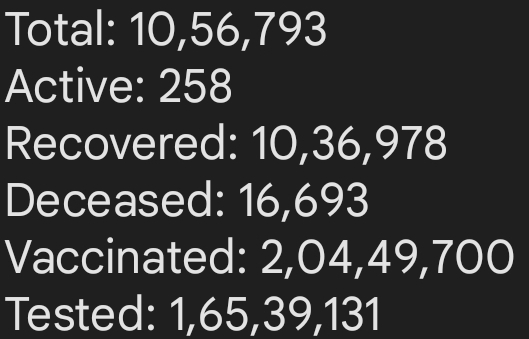
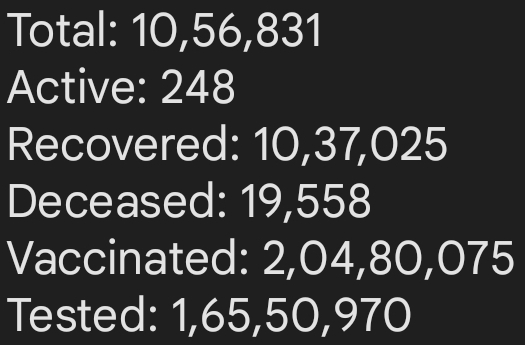
changes 23

diff --git a/index.html b/index.html
@@ -149,70 +149,70 @@
         </div>
         <div class="col s12" id="ind">
           <blockquote style="font-size: x-large; border-left-color: #1e88e5;">
-            <i class="fas fa-virus"></i> Covid 19 (Mar 24, Mar 23)</blockquote>
+            <i class="fas fa-virus"></i> Covid 19 (Mar 25, Mar 24)</blockquote>
           <h6 class="white-text">Source: ICMR/ MyGov<br>&#8595;&#8593; Changes from last 24 hours</h6>
           <div class="row">
             <div class="col s12 m12 l6">
-              <img src="images/I24i.png" alt="IndDB" width="100%" class="responsive-img materialboxed">
+              <img src="images/I25i.png" alt="IndDB" width="100%" class="responsive-img materialboxed">
             </div>
             <div class="col s12 m12 l6">
-              <img src="images/I23i.png" alt="IndDB" width="100%" class="responsive-img materialboxed">
+              <img src="images/I24i.png" alt="IndDB" width="100%" class="responsive-img materialboxed">
             </div>
           </div>
           <blockquote style="font-size: x-large; border-left-color: #1e88e5;">
-            <i class="fas fa-syringe"></i> Vaccination (Mar 24, Mar 23)</blockquote>
+            <i class="fas fa-syringe"></i> Vaccination (Mar 25, Mar 24)</blockquote>
           <div class="row">
+            <div class="col s12 m12 l6">
+              <img src="images/I25ii.png" alt="IndDB" width="100%" class="responsive-img materialboxed">
+            </div>
             <div class="col s12 m12 l6">
               <img src="images/I24ii.png" alt="IndDB" width="100%" class="responsive-img materialboxed">
             </div>
-            <div class="col s12 m12 l6">
-              <img src="images/I23ii.png" alt="IndDB" width="100%" class="responsive-img materialboxed">
-            </div>
           </div>
-          <h6>Below Data as on March 25, 13:25 IST</h6>
+          <h6>Below Data as on March 26, 14:25 IST</h6>
           <div class="row">
             <div class="col s12 m6 l4">
               <div class="card-panel grey darken-4 white-text">
                 <h5><b>Vaccine Doses availability</b></h5>
-                <p>As on March 25, Source: PIB India</p>
-                <p><b>Supplied</b>: 184.12 Crores</p>
-                <p><b>Balance</b>: 16.45 Crores</p>
+                <p>As on March 26, Source: PIB India</p>
+                <p><b>Supplied</b>: 184.40 Crores</p>
+                <p><b>Balance</b>: 16.41 Crores</p>
               </div>
             </div>
             <div class="col s12 m6 l4">
               <div class="card-panel grey darken-4 white-text">
                 <h5><b>Vaccine Doses administered</b></h5>
-                <p><b>Dose 1</b>: 97.97 Crores</p>
-                <p><b>Dose 2</b>: 82.44 Crores</p>
-                <p><b>Prec. Dose</b>: 2.10 Crores</p>
-                <p><b>Total</b>: 182.51 Crores</p>
+                <p><b>Dose 1</b>: 98.22 Crores</p>
+                <p><b>Dose 2</b>: 82.60 Crores</p>
+                <p><b>Prec. Dose</b>: 2.12 Crores</p>
+                <p><b>Total</b>: 182.95 Crores</p>
               </div>
             </div>
             <div class="col s12 m6 l4">
               <div class="card-panel grey darken-4 white-text">
                 <h5><b>Registered for Vaccine</b></h5>
-                <p><b>Age 12 to 14</b>: 1.03 Crores</p>
-                <p><b>Age 15 to 17</b>: 5.76 Crores</p>
-                <p><b>Age 18 to 44</b>: 62.89 Crores</p>
-                <p><b>Age 45+</b>: 36.50 Crores</p>
-                <p><b>Total</b>: 106.20 Crores</p>
+                <p><b>Age 12 to 14</b>: 1.21 Crores</p>
+                <p><b>Age 15 to 17</b>: 5.77 Crores</p>
+                <p><b>Age 18 to 44</b>: 62.90 Crores</p>
+                <p><b>Age 45+</b>: 36.51 Crores</p>
+                <p><b>Total</b>: 106.41 Crores</p>
               </div>
             </div>
             <div class="col s12 m6 l4">
               <div class="card-panel grey darken-4 white-text">
                 <h5><b>Vaccination by Gender</b></h5>
-                <p><b>Male</b>: 91.85 Crores</p>
-                <p><b>Female</b>: 88.09 Crores</p>
-                <p><b>Others</b>: 4.33 Lakhs</p>
+                <p><b>Male</b>: 92.06 Crores</p>
+                <p><b>Female</b>: 88.31 Crores</p>
+                <p><b>Others</b>: 4.34 Lakhs</p>
               </div>
             </div>
             <div class="col s12 m6 l4">
               <div class="card-panel grey darken-4 white-text">
                 <h5><b>Vaccination by Vaccine Name</b></h5>
-                <p><b>CoviShield</b>: 150.62 Crores</p>
-                <p><b>Covaxin</b>: 30.42 Crores</p>
-                <p><b>Sputnik V</b>: 12.20 Lakhs</p>
-                <p><b>Corbevax</b>: 92.63 Lakhs</p>
+                <p><b>CoviShield</b>: 150.76 Crores</p>
+                <p><b>Covaxin</b>: 30.50 Crores</p>
+                <p><b>Corbevax</b>: 1.15 Crores</p>
+                <p><b>Sputnik V</b>: 12.21 Lakhs</p>
                 <p><b>Novavax</b>: -</p>
                 <p><b>Zycov-D</b>: -</p>
               </div>
@@ -220,18 +220,32 @@
             <div class="col s12 m6 l4">
               <div class="card-panel grey darken-4 white-text">
                 <h5><b>Vaccination by Age</b></h5>
-                <p><b>Age 12 to 14</b>: 92.63 Lakhs</p>
-                <p><b>Age 15 to 17</b>: 9.32 Crores</p>
-                <p><b>Age 18 to 44</b>: 106.15 Crores</p>
-                <p><b>Age 45 to 60</b>: 40.24 Crores</p>
-                <p><b>Age 60+</b>: 25.43 Crores</p>
+                <p><b>Age 12 to 14</b>: 1.15 Crores</p>
+                <p><b>Age 15 to 17</b>: 9.38 Crores</p>
+                <p><b>Age 18 to 44</b>: 106.26 Crores</p>
+                <p><b>Age 45 to 60</b>: 40.27 Crores</p>
+                <p><b>Age 60+</b>: 25.46 Crores</p>
               </div>
             </div>
           </div>
         </div>
         <div class="col s12" id="sta">
           <blockquote style="font-size: x-large; border-left-color: #1e88e5;">
-            <i class="fas fa-virus"></i> Covid 19 (Mar 24, Mar 23)</blockquote>
+            <i class="fas fa-virus"></i> Covid 19 (Mar 25, Mar 24)</blockquote>
+          <div class="row">
+            <div class="col s12 m12 l3">
+              <img src="images/S25i.png" alt="StatDB1" width="100%" class="responsive-img materialboxed">
+            </div>
+            <div class="col s12 m12 l3">
+              <img src="images/S25ii.png" alt="StatDB2" width="100%" class="responsive-img materialboxed">
+            </div>
+            <div class="col s12 m12 l3">
+              <img src="images/S25iii.png" alt="StatDB3" width="100%" class="responsive-img materialboxed">
+            </div>
+            <div class="col s12 m12 l3">
+              <img src="images/S25iv.png" alt="StatDB4" width="100%" class="responsive-img materialboxed">
+            </div>
+          </div>
           <div class="row">
             <div class="col s12 m12 l3">
               <img src="images/S24i.png" alt="StatDB1" width="100%" class="responsive-img materialboxed">
@@ -246,75 +260,61 @@
               <img src="images/S24iv.png" alt="StatDB4" width="100%" class="responsive-img materialboxed">
             </div>
           </div>
-          <div class="row">
-            <div class="col s12 m12 l3">
-              <img src="images/S23i.png" alt="StatDB1" width="100%" class="responsive-img materialboxed">
-            </div>
-            <div class="col s12 m12 l3">
-              <img src="images/S23ii.png" alt="StatDB2" width="100%" class="responsive-img materialboxed">
-            </div>
-            <div class="col s12 m12 l3">
-              <img src="images/S23iii.png" alt="StatDB3" width="100%" class="responsive-img materialboxed">
-            </div>
-            <div class="col s12 m12 l3">
-              <img src="images/S23iv.png" alt="StatDB4" width="100%" class="responsive-img materialboxed">
-            </div>
-          </div>
           <blockquote style="font-size: x-large; border-left-color: #1e88e5;">
-            <i class="fas fa-syringe"></i> Vaccination (Mar 24, Mar 23)</blockquote>
+            <i class="fas fa-syringe"></i> Vaccination (Mar 25, Mar 24)</blockquote>
           <div class="row">
+            <div class="col s12 m12 l3">
+              <img src="images/V25i.png" alt="VacDB1" width="100%" class="responsive-img materialboxed">
+            </div>
+            <div class="col s12 m12 l3">
+              <img src="images/V25ii.png" alt="VacDB2" width="100%" class="responsive-img materialboxed">
+            </div>
             <div class="col s12 m12 l3">
               <img src="images/V24i.png" alt="VacDB1" width="100%" class="responsive-img materialboxed">
             </div>
             <div class="col s12 m12 l3">
               <img src="images/V24ii.png" alt="VacDB2" width="100%" class="responsive-img materialboxed">
             </div>
-            <div class="col s12 m12 l3">
-              <img src="images/V23i.png" alt="VacDB1" width="100%" class="responsive-img materialboxed">
-            </div>
-            <div class="col s12 m12 l3">
-              <img src="images/V23ii.png" alt="VacDB2" width="100%" class="responsive-img materialboxed">
-            </div>
           </div>
           <h6><b>Abbreviations</b> - UT: Union Territory</h6>
         </div>
         <div class="col s12" id="mah">
           <blockquote style="font-size: x-large; border-left-color: #1e88e5;">
-            <i class="fas fa-virus"></i> Covid 19 (Mar 24)</blockquote>
+            <i class="fas fa-virus"></i> Covid 19 (Mar 25)</blockquote>
           <h6>Source: Twitter - PIB Maharashtra</h6>
           <div class="row">
             <div class="col s12 m12 l6">
-              <img src="https://pbs.twimg.com/media/FOnvRv3aQA0x-jN?format=png&name=900x900" alt="MH1" width="100%"
+              <img src="https://pbs.twimg.com/media/FOs6OMzaQAkf6ro?format=png&name=small" alt="MH1" width="100%"
                 class="responsive-img materialboxed">
             </div>
             <div class="col s12 m12 l6">
-              <img src="https://pbs.twimg.com/media/FOnvVbiaAAk4Y1p?format=png&name=900x900" alt="MH2" width="100%"
-                class="responsive-img materialboxed">
-            </div>
-          </div>
-          <div class="row">
-            <div class="col s12 m12 l6">
-              <img src="https://pbs.twimg.com/media/FOnvY3caMAMr-TW?format=png&name=small" alt="MH3" width="100%"
-                class="responsive-img materialboxed">
-            </div>
-            <div class="col s12 m12 l6">
-              <img src="https://pbs.twimg.com/media/FOnv9R8aIAIOKSw?format=png&name=small" alt="MH4" width="100%"
+              <img src="https://pbs.twimg.com/media/FOs6TqKaMAIcxP0?format=png&name=900x900" alt="MH2" width="100%"
                 class="responsive-img materialboxed">
             </div>
           </div>
           <div class="row">
             <div class="col s12 m12 l6">
-              <img src="https://pbs.twimg.com/media/FOnwANvaMAUH14E?format=png&name=900x900" alt="MH5" width="100%"
+              <img src="https://pbs.twimg.com/media/FOs6lsEacAM2UrV?format=png&name=small" alt="MH3" width="100%"
                 class="responsive-img materialboxed">
             </div>
             <div class="col s12 m12 l6">
-              <img src="https://pbs.twimg.com/media/FOnwD2gaMAAQJgL?format=png&name=900x900" alt="MH6" width="100%"
+              <img src="https://pbs.twimg.com/media/FOs7lnVagAIDxM4?format=png&name=small" alt="MH4" width="100%"
                 class="responsive-img materialboxed">
             </div>
           </div>
           <div class="row">
             <div class="col s12 m12 l6">
-              <img src="https://pbs.twimg.com/media/FOnwHEKaAAYP71e?format=png&name=small" alt="MH7" width="100%"
+              <img src="https://pbs.twimg.com/media/FOs7oZxaUAEVunu?format=png&name=900x900" alt="MH5" width="100%"
+                class="responsive-img materialboxed">
+            </div>
+            <div class="col s12 m12 l6">
+              <img src="https://pbs.twimg.com/media/FOs7sVpaQAc2043?format=png&name=900x900" alt="MH6" width="100%"
+                class="responsive-img materialboxed">
+            </div>
+          </div>
+          <div class="row">
+            <div class="col s12 m12 l6">
+              <img src="https://pbs.twimg.com/media/FOs7v-gaAAQg04t?format=png&name=small" alt="MH7" width="100%"
                 class="responsive-img materialboxed">
             </div>
           </div>
@@ -333,37 +333,37 @@
           <div class="row">
             <div class="col s12 m6 l3">
               <div class="card-panel grey darken-4 white-text">
-                <h5><b>MUMBAI</b> <i class="fas fa-arrow-circle-up"></i> _ (54, 46) </h5>
+                <h5><b>MUMBAI</b> <i class="fas fa-arrow-circle-up"></i> 38 (54, 46) </h5>
                 <img src="images/D1.png" alt="MD" width="100%" class="responsive-img" id="dis">
               </div>
             </div>
             <div class="col s12 m6 l3">
               <div class="card-panel grey darken-4 white-text">
-                <h5><b>THANE</b> <i class="fas fa-arrow-circle-up"></i> _ (14, 19) </h5>
+                <h5><b>THANE</b> <i class="fas fa-arrow-circle-up"></i> 8 (14, 19) </h5>
                 <img src="images/D2.png" alt="TD" width="100%" class="responsive-img" id="dis">
               </div>
             </div>
             <div class="col s12 m6 l3">
               <div class="card-panel grey darken-4 white-text">
-                <h5><b>PALGHAR</b> <i class="fas fa-arrow-circle-up"></i> _ (2, 1) </h5>
+                <h5><b>PALGHAR</b> <i class="fas fa-arrow-circle-up"></i> 133 (2, 1) </h5>
                 <img src="images/D3.png" alt="PD" width="100%" class="responsive-img" id="dis">
               </div>
             </div>
             <div class="col s12 m6 l3">
               <div class="card-panel grey darken-4 white-text">
-                <h5><b>RAIGAD</b> <i class="fas fa-arrow-circle-up"></i> _ (2, 2) </h5>
+                <h5><b>RAIGAD</b> <i class="fas fa-arrow-circle-up"></i> 4 (2, 2) </h5>
                 <img src="images/D4.png" alt="RD" width="100%" class="responsive-img" id="dis">
               </div>
             </div>
           </div>
           <blockquote style="font-size: x-large; border-left-color: #1e88e5;">Mumbai Dashboard</blockquote>
-          <h6>Source: Official MCGM Website<br>As on March 24 (March 23)</h6>
+          <h6>Source: Official MCGM Website<br>As on March 25 (March 24)</h6>
           <div class="row">
             <div class="col s12 m12 l6">
-              <img src="images/M24.png" alt="Mum" width="100%" class="responsive-img materialboxed">
+              <img src="images/M25.png" alt="Mum" width="100%" class="responsive-img materialboxed">
             </div>
             <div class="col s12 m12 l6">
-              <img src="images/M23.png" alt="Mum" width="100%" class="responsive-img materialboxed">
+              <img src="images/M24.png" alt="Mum" width="100%" class="responsive-img materialboxed">
             </div>
           </div>
           <blockquote style="font-size: x-large; border-left-color: #1e88e5;">Palghar Dashboard</blockquote>
@@ -379,14 +379,14 @@
             </div>
           </div>
           <blockquote style="font-size: x-large; border-left-color: #1e88e5;">Raigad Dashboard</blockquote>
-          <h6>Source: Twitter - Raigad District<br>As on March 24 (March 23)</h6>
+          <h6>Source: Twitter - Raigad District<br>As on March 25 (March 24)</h6>
           <div class="row">
             <div class="col s12 m12 l6">
-              <img src="https://pbs.twimg.com/media/FOn0uP3aUAIY2Of?format=jpg&name=medium" alt="Rai" width="100%"
+              <img src="https://pbs.twimg.com/media/FOtKVpNVQAYFWvd?format=jpg&name=medium" alt="Rai" width="100%"
                 class="responsive-img materialboxed">
             </div>
             <div class="col s12 m12 l6">
-              <img src="https://pbs.twimg.com/media/FOi3ZmuagAQVPKo?format=jpg&name=medium" alt="Rai" width="100%"
+              <img src="https://pbs.twimg.com/media/FOn0uP3aUAIY2Of?format=jpg&name=medium" alt="Rai" width="100%"
                 class="responsive-img materialboxed">
             </div>
           </div>
@@ -395,43 +395,43 @@
           <div class="row">
             <div class="col s12 m6 l4">
               <div class="card-panel grey darken-4 white-text">
-                <h5><b>THANE</b> <i class="fas fa-arrow-circle-up"></i> _ <br>(5) </h5>
+                <h5><b>THANE</b> <i class="fas fa-arrow-circle-up"></i> 2 <br>(5) </h5>
                 <p><b>As on </b>Mar 25 (Mar 24)</p>
-                <p><b>Total:</b> 183653 </p>
-                <p><b>Active:</b> 27 </p>
-                <p><b>Recovered:</b> 181499 </p>
+                <p><b>Total:</b> 183655 </p>
+                <p><b>Active:</b> 23 </p>
+                <p><b>Recovered:</b> 181505 </p>
                 <p><b>Deceased:</b> 2127 </p>
                 <hr>
                 <p class="grey-text text-lighten-1">
-                  Majiwada Manpada: 2<br>
-                  Vartaknagar: 3<br>
+                  Majiwada Manpada: 1<br>
+                  Vartaknagar: 0<br>
                   Lokmanyanagar Savarkarnagar: 0<br>
-                  Naupada-Kopari: 0<br>
+                  Naupada-Kopari: 1<br>
                   Uthalsar: 0<br>
                   Wagale: 0<br>
                   Kalwa: 0<br>
                   Mumbra: 0<br>
                   Diva: 0<br>
-                  Others: 0 [Mar 24]</p>
+                  Others: 0 [Mar 25]</p>
               </div>
             </div>
             <div class="col s12 m6 l4">
               <div class="card-panel grey darken-4 white-text">
-                <h5><b>KALYAN KDMC</b> <i class="fas fa-arrow-circle-up"></i> _ <br>(0) </h5>
+                <h5><b>KALYAN KDMC</b> <i class="fas fa-arrow-circle-up"></i> 1 <br>(0) </h5>
                 <p><b>As on </b>Mar 25 (Mar 24)</p>
-                <p><b>Total:</b> 166496 </p>
-                <p><b>Active:</b> 4 </p>
+                <p><b>Total:</b> 166497 </p>
+                <p><b>Active:</b> 5 </p>
                 <p><b>Recovered:</b> 163538 </p>
                 <p><b>Deceased:</b> 2954 </p>
                 <hr>
                 <p class="grey-text text-lighten-1">
-                  Kalyan East: 0<br>
+                  Kalyan East: 1<br>
                   Kalyan West: 0<br>
                   Dombivli East: 0<br>
                   Dombivli West: 0<br>
                   Manda-Titwala: 0<br>
                   Mohana: 0<br>
-                  Pisavli: 0 [Mar 24]<br><br><br><br></p>
+                  Pisavli: 0 [Mar 25]<br><br><br><br></p>
               </div>
             </div>
             <div class="col s12 m6 l4">
@@ -457,14 +457,14 @@
             </div>
             <div class="col s12 m6 l4">
               <div class="card-panel grey darken-4 white-text">
-                <h5><b>MIRA BHAYANDER</b> <i class="fas fa-arrow-circle-up"></i> _ <br>(0) </h5>
+                <h5><b>MIRA BHAYANDER</b> <i class="fas fa-arrow-circle-up"></i> 0 <br>(0) </h5>
                 <p><b>As on </b>Mar 25 (Mar 24)</p>
                 <p><b>Total:</b> 69103 </p>
                 <p><b>Active:</b> 1 </p>
                 <p><b>Recovered:</b> 67705 </p>
                 <p><b>Deceased:</b> 1397 </p>
                 <hr>
-                <p class="grey-text text-lighten-1">Bhayander East: 0<br>Bhayander West: 0<br>Mira Road: 0 [Mar 24]
+                <p class="grey-text text-lighten-1">Bhayander East: 0<br>Bhayander West: 0<br>Mira Road: 0 [Mar 25]
                   <br><br>
                 </p>
               </div>
